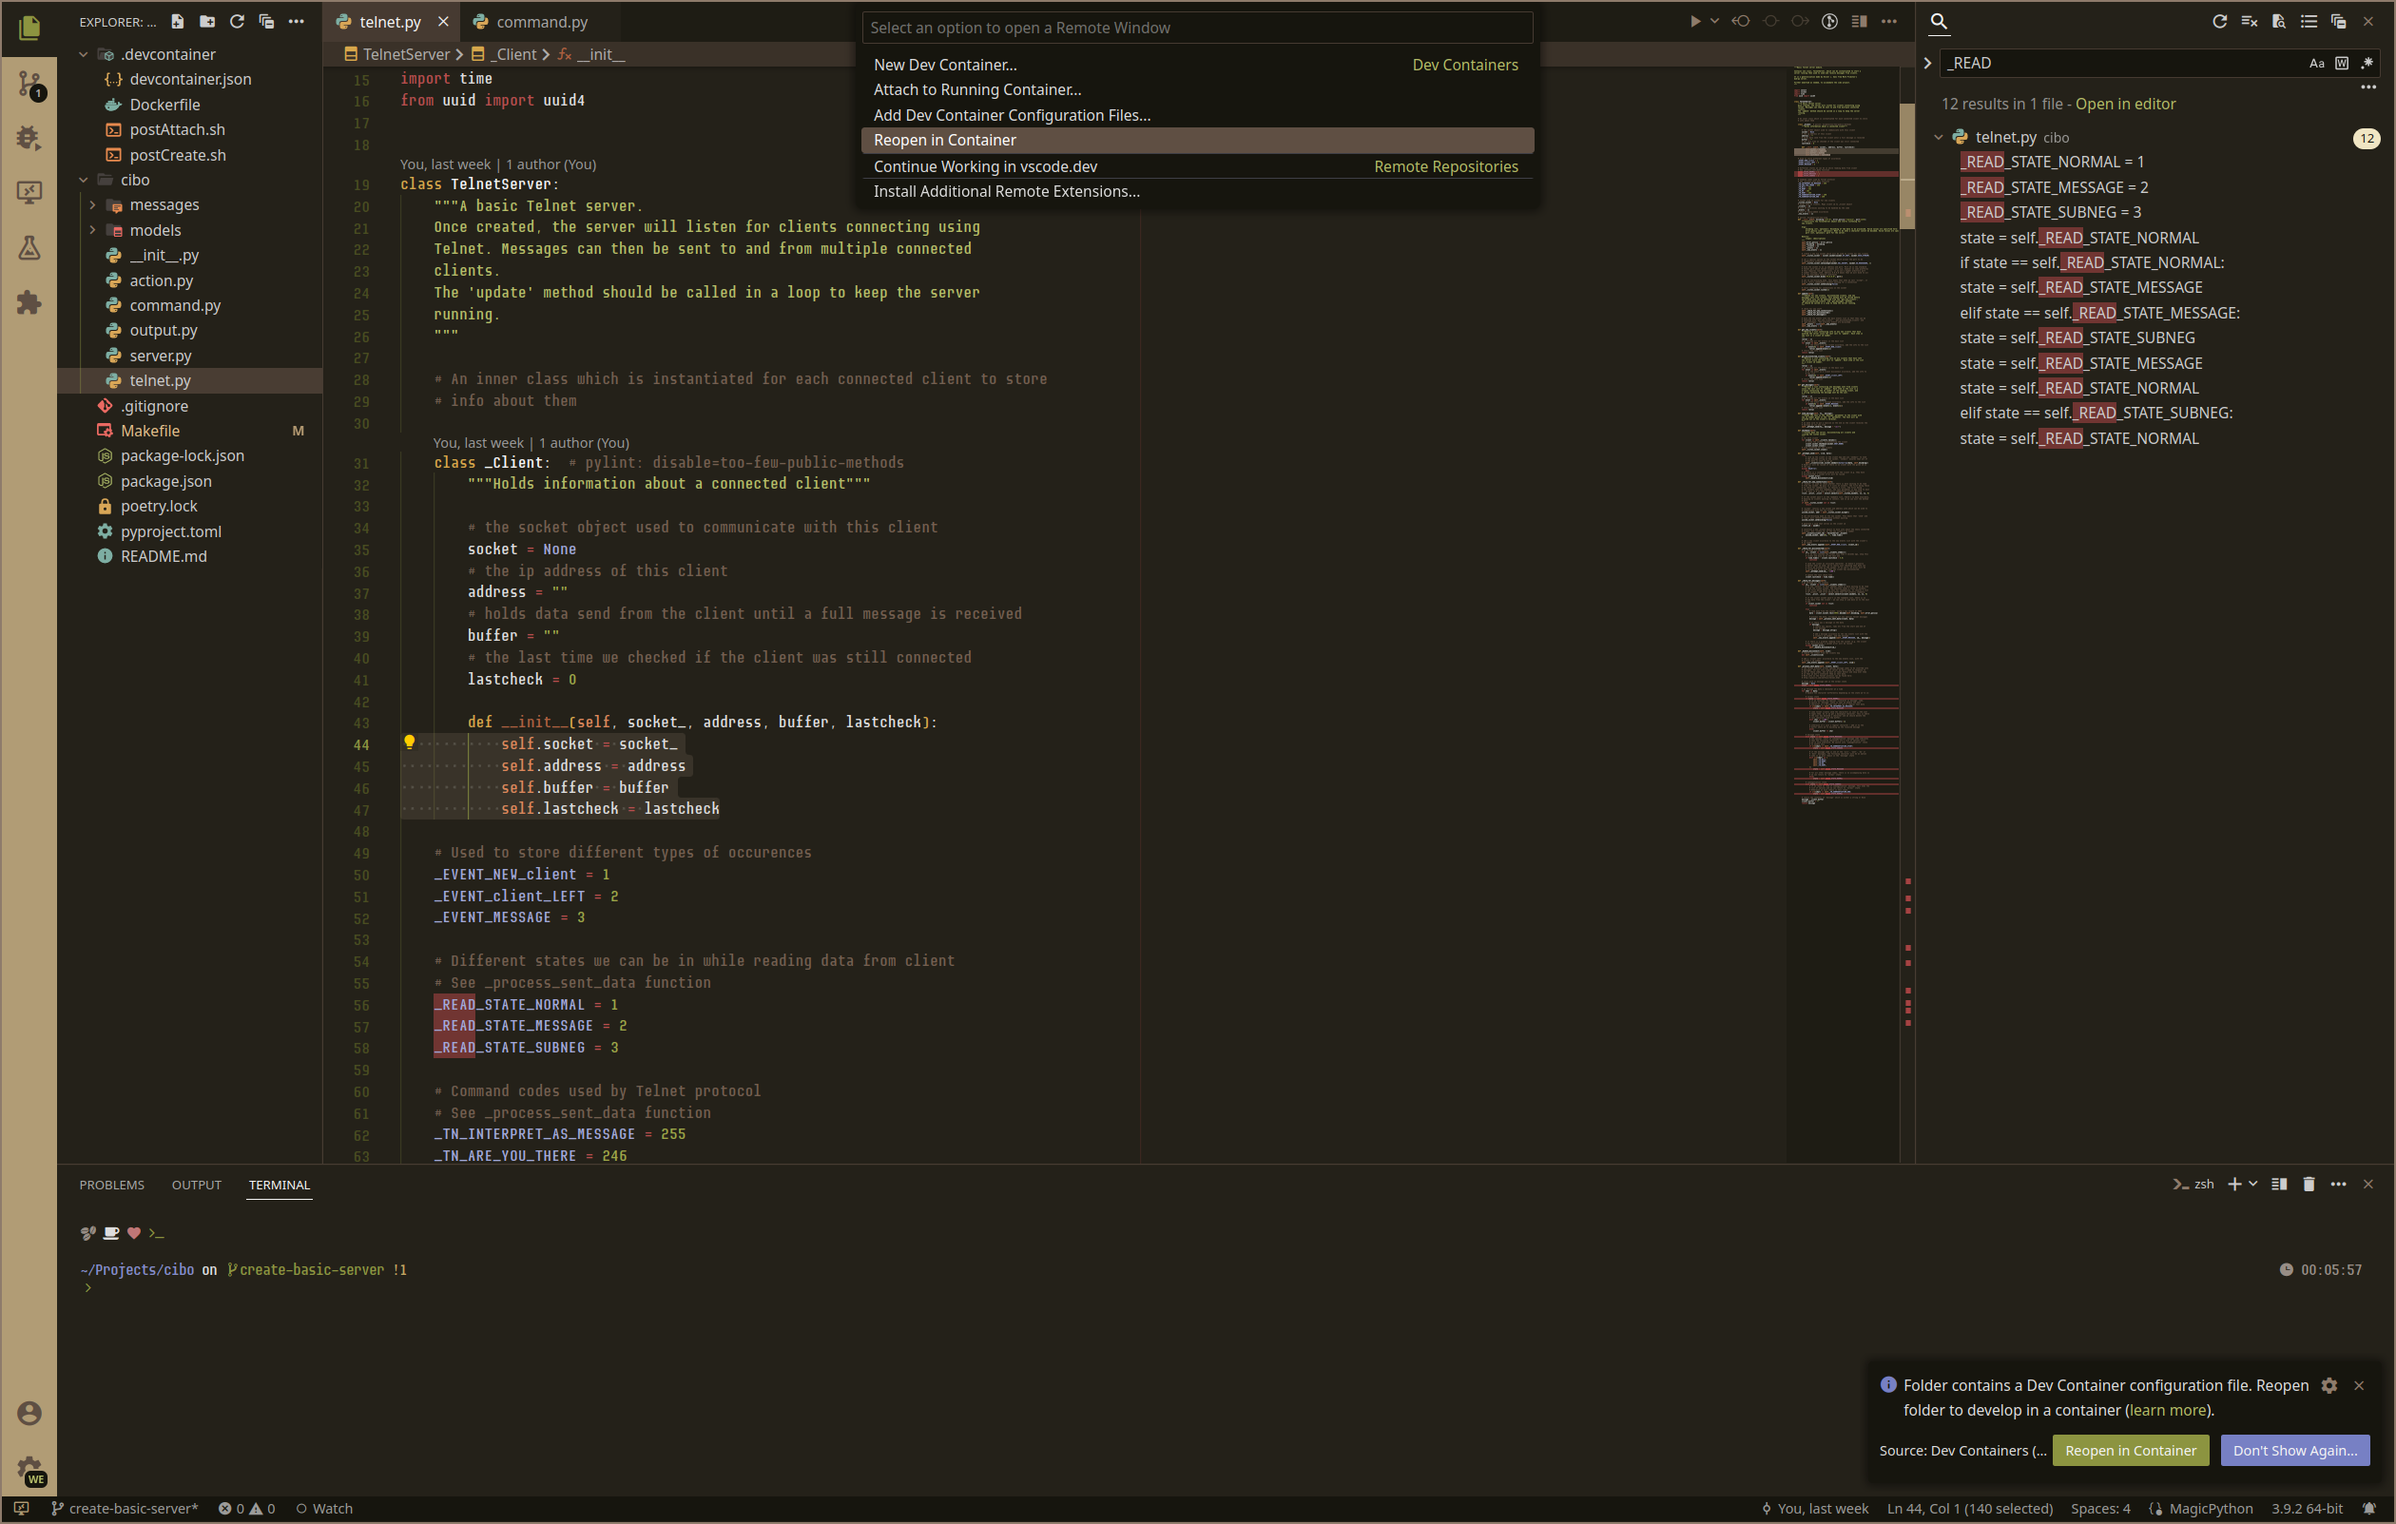
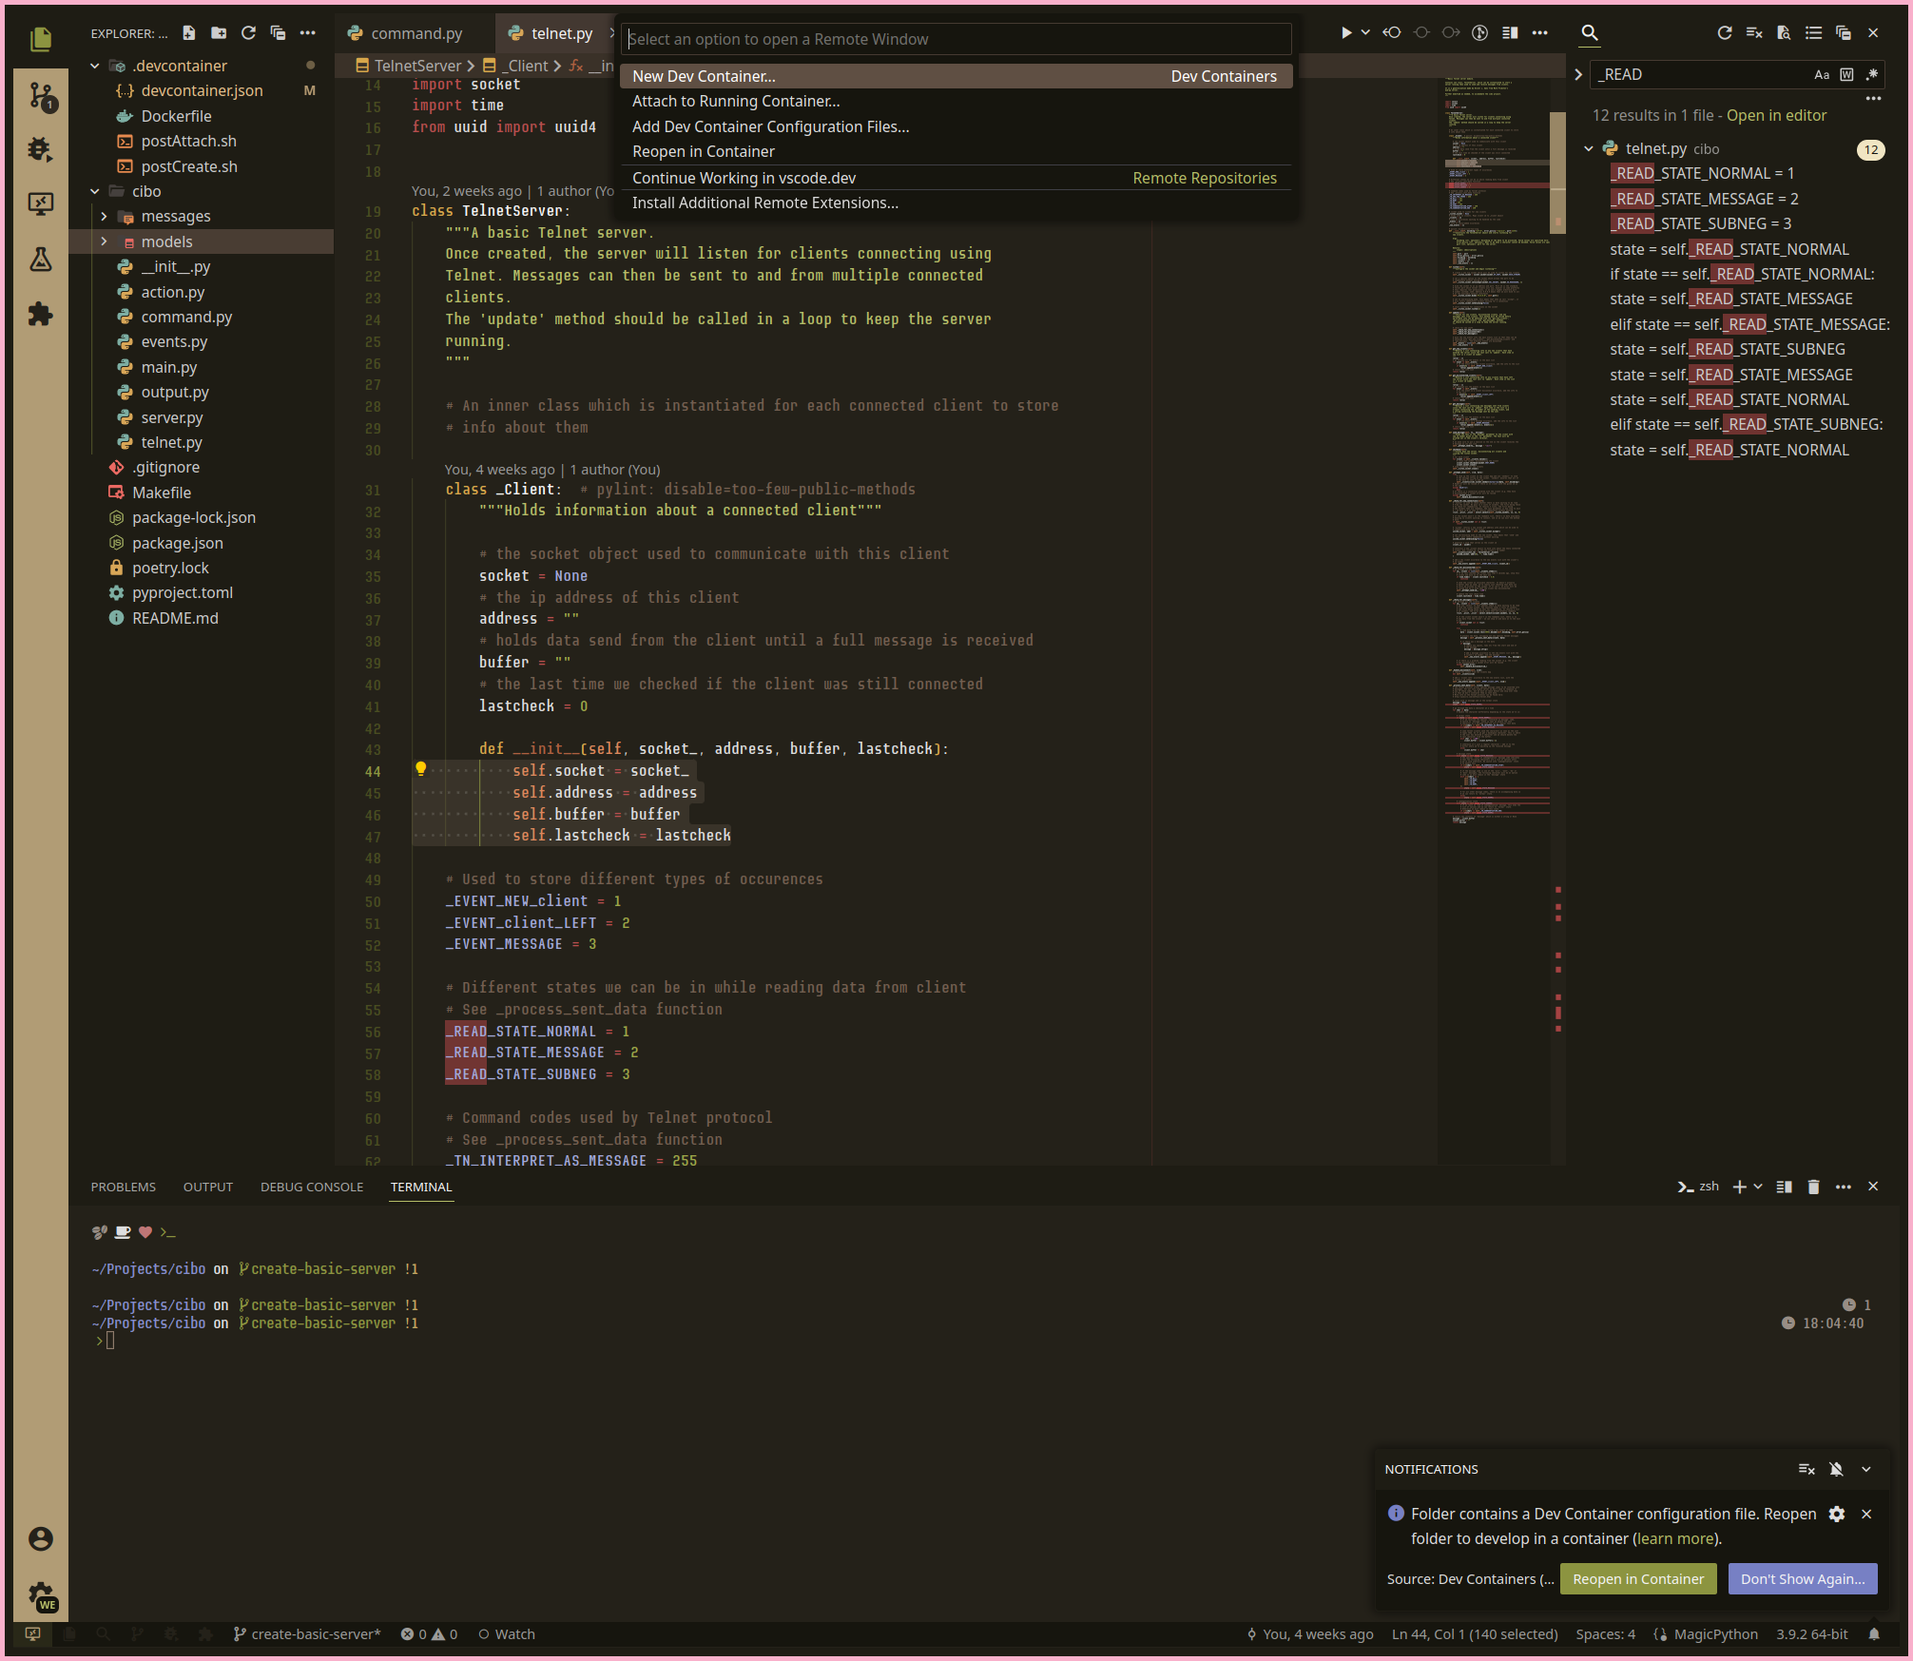
update screenshot, ver, changelog (#4)

Changed region(s): [[0.0, 0.0, 1.0, 1.0], [0.4622, 0.4367, 0.493, 0.4679]]

diff --git a/CHANGELOG.md b/CHANGELOG.md
@@ -6,6 +6,12 @@ Check [Keep a Changelog](http://keepachangelog.com/) for recommendations on how 
 
 ## [Unreleased]
 
+## [1.2.1] - 2023-05-14
+
+### CHANGED
+
+- Darkened some element colors, to provide more contrast
+
 ## [1.1.0] - 2023-04-23
 
 ### ADDED
